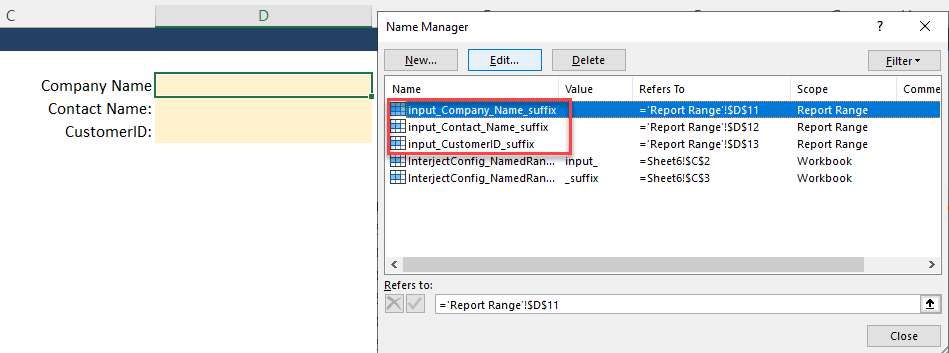
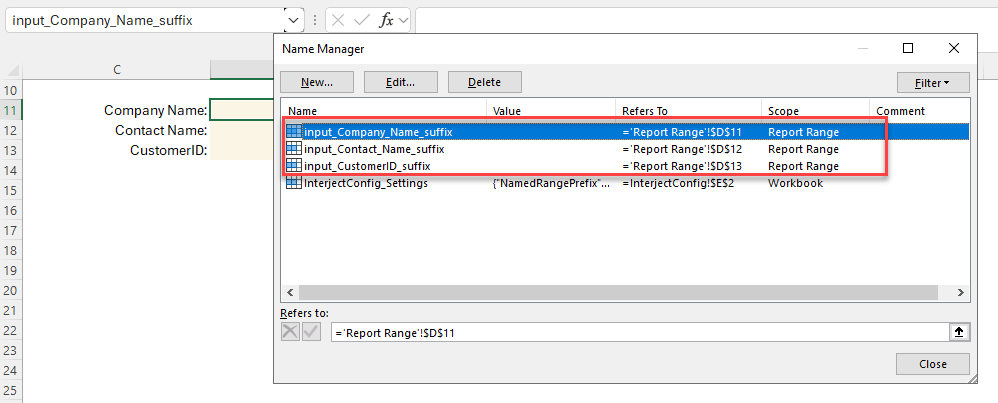
Updated quick tools named range doc page

Changed region(s): [[0.0, 0.0, 1.0, 1.0], [0.8251, 0.4986, 0.9168, 0.5297], [0.9779, 0.0312, 1.0, 0.0623]]

diff --git a/wIndex/QuickTools-Names.md b/wIndex/QuickTools-Names.md
@@ -150,29 +150,40 @@ Notice 3 names were created correspond to the entries in the left column and the
 
 ### Appending A Prefix and/or Suffix To A Name
 
-Interject can automatically have a prefix and/or suffix appended to a defined name when you create it using Quick Tools. For example, you may want to append the prefix "input_" to your filter names. You must first set up a few defined names for this to work.
+Interject can automatically have a prefix and/or suffix appended to a defined name when you create it using Quick Tools. For example, you may want to append the prefix "input_" to your filter names. You can also fix a suffix to the named ranges. It is best to include these config settings in a separate sheet.
 
-**Step 1:** First select an empty spot within the report to store your prefix and suffix:
+**Step 1:** Open up a new Excel tab called "InterjectConfig".
+
+![](/images/QuickToolsNames/NewTab.png)
+<br>
+
+**Step 2:** Select an empty spot within the sheet to store your prefix and suffix.
 
 ![](/images/QuickToolsNames/PrefixSuffix1.png)
 <br>
 
-**Step 2:** Next, select the prefix name and give it the defined name "InterjectConfig_NamedRangePrefix":
+**Step 3:** Select an empty cell and give it the named range of "InterjectConfig_Settings".
 
 ![](/images/QuickToolsNames/PrefixSuffix2.png)
 <br>
 
-**Step 3:** Give the suffix name the defined name "InterjectConfig_NamedRangeSuffix":
+**Step 4:** Interject will find any json pair in this named range to use. To have Excel format a json pair using the prefix and suffix set up, enter this in the cell:
+
+```bash
+="{""NamedRangePrefix"":"""&C2&"""}{""NamedRangeSuffix"":"""&C3&"""}"
+```
+
+The configurations are now set up.
 
 ![](/images/QuickToolsNames/PrefixSuffix3.png)
 <br>
 
-**Step 4:** Now select the 2 columns you want to create names for:
+**Step 5:** Now select the 2 columns you want to create names for:
 
 ![](/images/QuickToolsNames/SelectedNameRangeBefore.png)
 <br>
 
-**Step 5:** Next open up the Interject Quick Tools and select the tool and click **OK**:
+**Step 6:** Next open up the Interject Quick Tools and select the tool and click **OK**:
 
 ![](/images/QuickToolsNames/SelectedNameRangeMiddle.png)
 <br>
